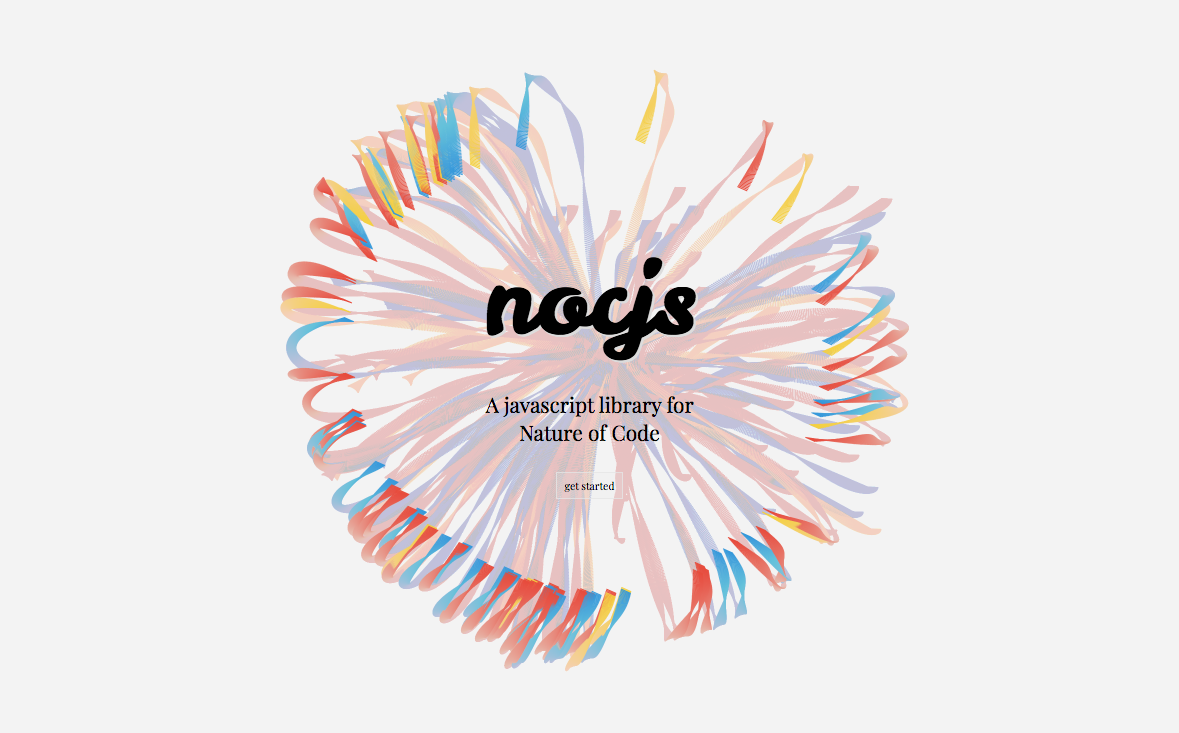
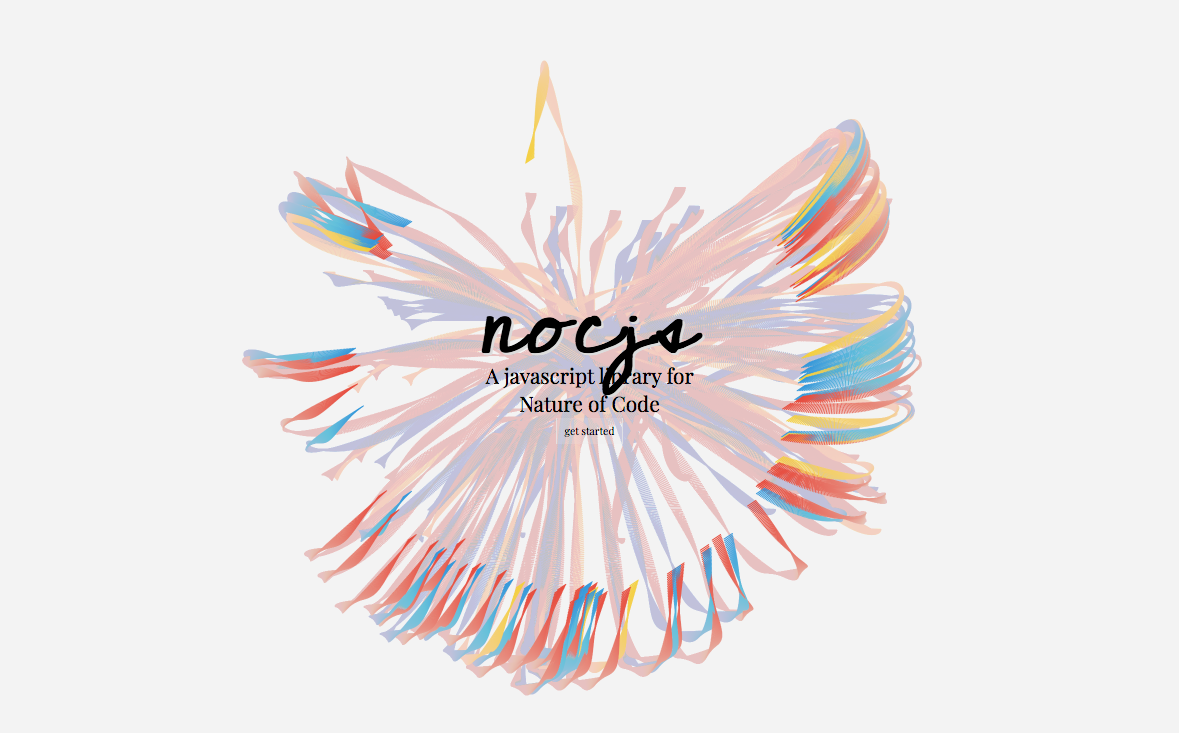
adds new font

Changed region(s): [[0.1832, 0.09, 0.7939, 0.9604]]

diff --git a/index.html b/index.html
@@ -6,7 +6,7 @@
             <script src="https://cdnjs.cloudflare.com/ajax/libs/p5.js/0.9.0/addons/p5.sound.min.js"></script>
             <script src="https://unpkg.com/nocjs@latest/dist/nocjs.min.js"></script>
 
-            <link href="https://fonts.googleapis.com/css?family=Leckerli+One|Playfair+Display&display=swap" rel="stylesheet"> 
+            <link href="https://fonts.googleapis.com/css?family=Cedarville+Cursive|Playfair+Display&display=swap" rel="stylesheet"> 
 
             <style>
                 *{
@@ -40,13 +40,14 @@
                 }
                 #app > header > h1 {
                     font-size:6rem;
-                    font-family: 'Leckerli One', cursive;
+                    font-family: 'Cedarville Cursive', cursive;;
                     text-align:center;
                     text-shadow:2px 2px  rgba(220, 220, 220, 1);
+                    line-height: 0.75;
                 }
 
                 #app > header > h2 {
-                    margin-top:1.6rem;
+                    /* margin-top:1.6rem; */
                     font-size:1.3rem;
                     font-family: 'Playfair Display', serif;
                     text-align:center;
@@ -55,7 +56,7 @@
                 }
 
                 #app > header > p{
-                    margin-top:1.6rem;
+                    /* margin-top:1.6rem; */
                     border: 0.01rem solid rgba(230, 230, 230, 0.75);
                     padding:0.35rem 0.5rem;
                     background-color: rgba(  230, 230, 230 ,0.2);
